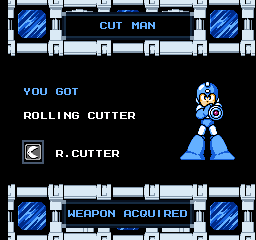
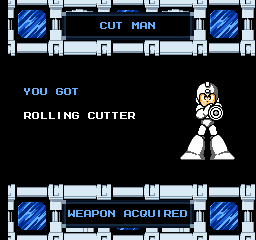
Remove weapon menu row and apply Cutter palette to acquisition portrait

diff --git a/Assets/Bosses/MM1/Cut Man/Victory/Screen/README.md b/Assets/Bosses/MM1/Cut Man/Victory/Screen/README.md
@@ -1,6 +1,8 @@
-# Custom Rolling Cutter weapon-get screen — first visual draft
+# Custom Rolling Cutter weapon-get screen — revised visual draft
 
-Not appearance-approved, installed, animated or complete. No partial installer.
+Overall layout approved by user. Requested row-removal and weapon-colour revision
+implemented; revised appearance/runtime acceptance pending. Not installed, animated
+or complete. No partial installer.
 
 This is the **reveal/name-card state**, not the later weapon demonstration.
 Native logical size256x240, with a4x nearest-neighbour review image. Adaptation:
@@ -12,11 +14,16 @@ Native logical size256x240, with a4x nearest-neighbour review image. Adaptation:
   is background-rendered, NOT an OAM actor: native rendered64x96 region at176,72
   isolated against the original black backdrop.1632 nonblack pixels preserved and
   individually checked against native rendering. Black backdrop becomes alpha.
-  No generated/repainted character pixels; the native blue reveal pose is retained.
+  Original geometry/alpha retained. Displayed variant uses Rolling Cutter armour
+  colours: dark blue -> grey666666, light blue -> whiteFFFEFF, cannon magenta ->
+  light greyADADAD. Face/eye/white-highlight pixels remain unchanged. This is a
+  custom weapon-specific adaptation, not an original MM6 weapon palette claim.
 - Accepted original38-cell MM5 sprite alphabet, including white/cyan tint correction.
   No new font, invented letters, antialiasing or interpolated scaling.
-- Accepted selected Rolling Cutter menu icon; **Sprites by KindlyPatrick**.
-- YOU GOT / ROLLING CUTTER, with R.CUTTER card. No score/CLEAR POINTS.
+- YOU GOT / ROLLING CUTTER only. The small weapon icon, R.CUTTER menu name and
+  their card are removed, per user request. No such menu row on future weapons.
+- Each future weapon screen must use that weapon's portrait palette; do not leave
+  the displayed Mega Man in default blue. No score/CLEAR POINTS.
 - Approved original-volume MM5 weapon-get music remains the audio plan. This Draw
   does not start/modify any audio, and does not grant inventory or complete phases.
 
@@ -24,10 +31,12 @@ Native logical size256x240, with a4x nearest-neighbour review image. Adaptation:
 
 `spr_mm1_weapon_get_frame.png`:256x240, one image, origin0,0.
 Future folder `Sprites > MM1 > Cut Man > Weapon Get`.
-`spr_mm6_weapon_get_megaman.png`:64x96, one image, origin0,0.
-Future folder `Sprites > MM6 > Weapon Get`.
-Reuse existing `spr_mm5_pause_font` and `spr_mm1_menu_rolling_cutter_selected`.
-`single scr_mm1_cutman_weapon_screen_draw.gml`: eventual resource under
+`spr_mm1_weapon_get_rolling_cutter_megaman.png`:64x96, one image, origin0,0.
+Future folder `Sprites > MM1 > Cut Man > Weapon Get`.
+`spr_mm6_weapon_get_megaman.png` is the preserved blue native source/reference,
+not the displayed Rolling Cutter variant. Reuse only existing `spr_mm5_pause_font`;
+no menu icon resource dependency.
+`scr_mm1_cutman_weapon_screen_draw.gml`: eventual resource under
 `Scripts > MM1 > Cut Man > Weapon Get`, read-only256x240 GUI renderer.
 The final screen GUI owner must render after stage/HUD; no hook is installed yet.
 

diff --git a/Assets/Bosses/MM1/Cut Man/Victory/README.md b/Assets/Bosses/MM1/Cut Man/Victory/README.md
@@ -565,3 +565,15 @@ to the preview in `test-cutman-weapon-screen-design.mjs`. Appearance approval is
 pending. No runtime hook/audio/reward advancement is installed by this visual
 checkpoint. It does not replace the unfinished animation/demonstration with timers.
 MM5 music at original unboosted volume remains the production audio choice.
+
+### Weapon-screen layout approved with requested revisions
+
+User approved the overall screen layout, requested removal of the weapon symbol
+and weapon-menu abbreviation row for this and future weapons, and requested the
+displayed Mega Man match the acquired weapon palette. Updated preview/Draw have
+no icon, R.CUTTER or card. Main ROLLING CUTTER acquisition title stays. Displayed
+portrait is now grey/white for Cutter, preserving exact native silhouette, alpha,
+face and eyes; unrelated magenta cannon accent is grey. Original blue source art
+is retained separately, not drawn. Future weapons require their own matching
+portrait palette rather than default blue. Music and other layout remain unchanged.
+Actual-GML raster test passes revised preview,removed-row and palette-only checks.
